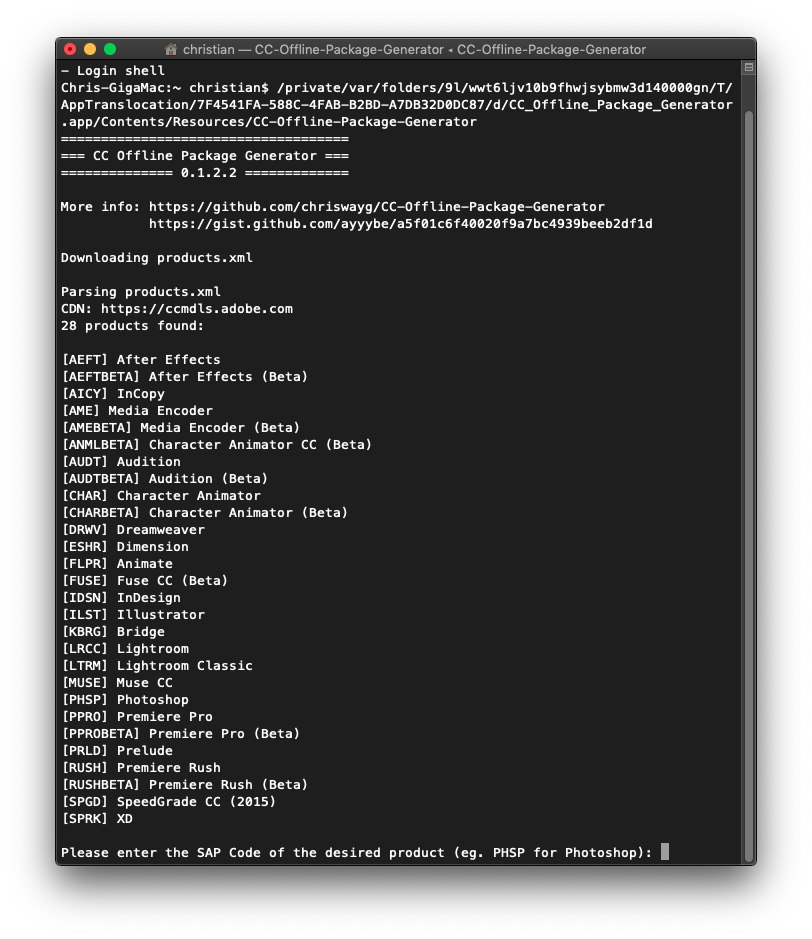
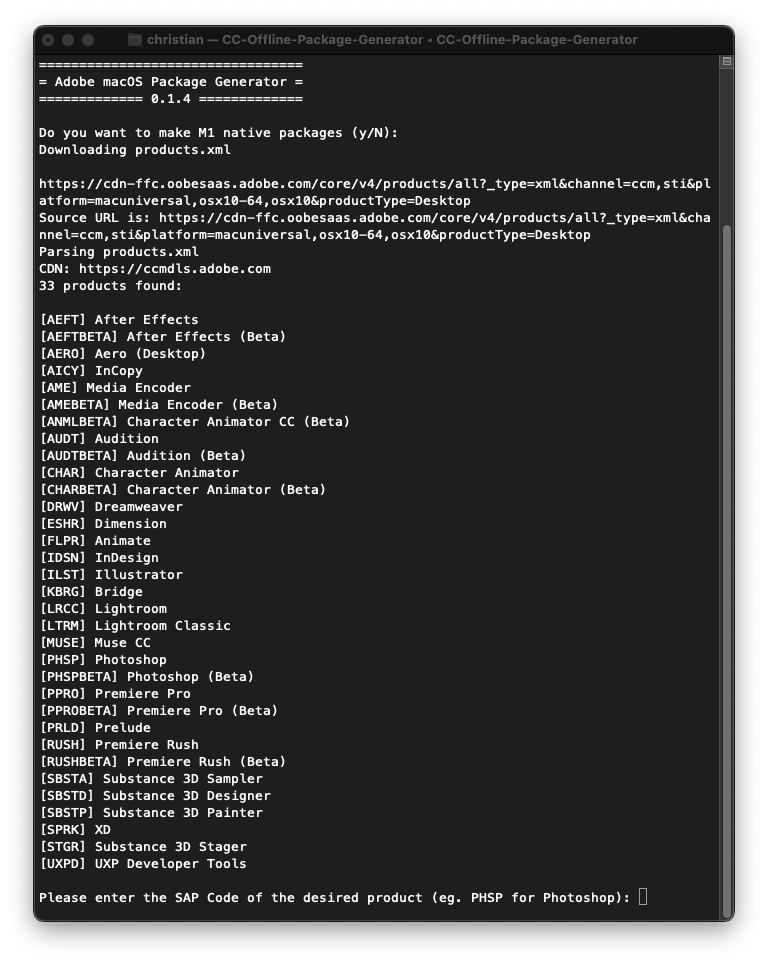
added documentation, updated links and screenshot

Changed region(s): [[0.0312, 0.0, 0.9688, 0.9883]]

diff --git a/readme.md b/readme.md
@@ -1,92 +1,99 @@
 # Adobe CC 2018 to 2022 Direct Download
 
-**UPDATE, March 11, 2022: I have released a new version which packages the updated script _(version 0.1.4)_ by [Drovosek01](https://github.com/Drovosek01) / [adobe-packager](https://github.com/Drovosek01/adobe-packager), which can be found in the `src/` folder. This should work with all recent Adobe Applications.**
+**UPDATE, March 11, 2022: I have released a new version of the *CC Offline Package Generator* app which packages the updated script [adobe-packager](https://github.com/Drovosek01/adobe-packager) (version 0.1.4) by Drovosek. This app will allow you to download most available versions of Adobe CC Applications on all recent versions of macOS.** The advantage of *CC Offline Package Generator* is that it already has all dependencies in a small 8 MB app, whereas the *adobe-packager* script by itself will need to download and install about 500MB of dependencies in order to work.
 
-**Download: [CC Offline Package Generator 0.1.4_1 ](https://github.com/chriswayg/CC-Offline-Package-Generator/releases/latest)**
+**Download: [CC Offline Package Generator](https://github.com/chriswayg/CC-Offline-Package-Generator/releases/latest)**
 
 ### Background
 
 Adobe used to make Adobe CC trial full offline installer packages available via direct downloads as seen in the links for Adobe CC 2018 and 2019:
-- [Adobe CC 2018 Direct Download Links: Creative Cloud 2018 Release](https://prodesigntools.com/adobe-cc-2018-direct-download-links.html)
-- [All the New Adobe CC 2019 Direct Download Links, Now Available!](https://prodesigntools.com/adobe-cc-2019-direct-download-links.html)
-- [How to Get New Adobe Creative Cloud 2021 Direct Download Links | ProDesignTools](https://prodesigntools.com/creative-cloud-2021-direct-download-links.html)
+
+- [Adobe CC 2018 Direct Download Links](https://prodesigntools.com/adobe-cc-2018-direct-download-links.html) and [Adobe CC 2019 Direct Download Links](https://prodesigntools.com/adobe-cc-2019-direct-download-links.html)
+- [How to Get New Adobe Creative Cloud 2022 Direct Download Links | ProDesignTools](https://prodesigntools.com/creative-cloud-2022-direct-download-links.html)
 - [Why Direct Download Links Are Needed | ProDesignTools](https://prodesigntools.com/adobe-cc-no-more-direct-download-links.html#the-need)
 
-There is no equivalent list of Adobe CC 2020 or 2021 direct download links available at this time, but the *CC_Offline_Package_Generator* script can download the files directly from Adobe and create an installer package. *(This GitHub repository is not associated with or endorsed by Adobe or ProDesign Tools. Links to ProDesign and Adobe are provided to give additional background information on the issue of Direct Downloads of the Adobe CC offline installers and to give easy access to the various ways of downloading Adobe software.)*
+There is no equivalent list of Adobe CC 2020 to 2022 direct download links available at this time, but the *CC_Offline_Package_Generator* can download the files directly from Adobe and create an installer package. *(This GitHub repository is not associated with or endorsed by Adobe or ProDesign Tools. Links to ProDesign and Adobe are provided to give additional background information on the issue of Direct Downloads of the Adobe CC offline installers and to give easy access to the various ways of downloading Adobe software.)*
 
 ### Usage
 
-1. First download and install from Adobe the [Creative Cloud - Full Installer - macOS | Alternative downloads (250+ MB)](https://helpx.adobe.com/download-install/kb/creative-cloud-desktop-app-download.html) or the [Creative Cloud - Installer Downloader (3+ MB)](https://creativecloud.adobe.com/apps/download/creative-cloud). The CC Offline Package Generator will not run unless the Adobe Creative Cloud app has been installed first. You need an Adobe account when installing this app.
+1. First download and install from Adobe the [Creative Cloud - Full Installer (250+ MB)](https://helpx.adobe.com/download-install/kb/creative-cloud-desktop-app-download.html) *(scroll down to macOS | Alternative downloads)* or if you prefer the [Creative Cloud - Installer Downloader (3+ MB)](https://creativecloud.adobe.com/apps/download/creative-cloud). The CC Offline Package Generator will not run unless the Adobe Creative Cloud app has been installed first. You need an Adobe account when installing this app.
 
-2. Then download the [CC_Offline_Package_Generator.dmg](https://github.com/chriswayg/CC-Offline-Package-Generator/releases/), mount it and copy `CC_Offline_Package_Generator` to Applications. Run the app and it will open a Terminal window. Then follow the on-screen instructions. Tested on High Sierra, Mojave and Catalina.
+2. Then download the [CC_Offline_Package_Generator.dmg](https://github.com/chriswayg/CC-Offline-Package-Generator/releases/), mount it and copy `CC_Offline_Package_Generator` to Applications. Run the app and it will open a Terminal window. Then follow the on-screen instructions. Tested from High Sierra up to Monterey.
 
 Download location: https://github.com/chriswayg/CC-Offline-Package-Generator/releases/
 
-![](https://raw.githubusercontent.com/chriswayg/CC-Offline-Package-Generator/master/screenshots/Usage00.png)
+![](screenshots/Usage00.png)
 
 Allow access to launch the Terminal window
-![](https://raw.githubusercontent.com/chriswayg/CC-Offline-Package-Generator/master/screenshots/Usage00b.png)
+![](screenshots/Usage00b.png)
 
 The CC_Offline_Package_Generator script will download a list of all products from Adobe and prompt you to choose the product, version, language, and destination folder for the installer.
 
-![](https://raw.githubusercontent.com/chriswayg/CC-Offline-Package-Generator/master/screenshots/Usage01.png)
-![](https://raw.githubusercontent.com/chriswayg/CC-Offline-Package-Generator/master/screenshots/Usage02.png)
+![](screenshots/Usage01.png)
+![](screenshots/Usage02.png)
 
 After that you just have to sit back and wait for it to finish. The script will download all required files, and then generate a convenient installer and place it in the destination directory. When prompted, select a destination folder where you want to save the installer.
 
-![](https://raw.githubusercontent.com/chriswayg/CC-Offline-Package-Generator/master/screenshots/Usage03.png)
+![](screenshots/Usage03.png)
 
 Now you can run the "Install [product]" app created in the destination folder, or save it for later offline installation.
 
-![](https://raw.githubusercontent.com/chriswayg/CC-Offline-Package-Generator/master/screenshots/Usage04.png)
+![](screenshots/Usage04.png)
 
 Make sure you install the [Adobe Creative Cloud App](https://creativecloud.adobe.com/apps/download/creative-cloud) first on the computers where you intend to run the installer. Most installers should work, but some will not. See *Known Issues* below for details.
 
-![](https://raw.githubusercontent.com/chriswayg/CC-Offline-Package-Generator/master/screenshots/Usage05.png)
-![](https://raw.githubusercontent.com/chriswayg/CC-Offline-Package-Generator/master/screenshots/Usage06.png)
-![](https://raw.githubusercontent.com/chriswayg/CC-Offline-Package-Generator/master/screenshots/Usage07.png)
+![](screenshots/Usage05.png)
+![](screenshots/Usage06.png)
+![](screenshots/Usage07.png)
 
 ### Known issues
 
-Currently most installers work, but the following are known not to work:
-- Acrobat does not show up in the list, as is not made available form the Adobe servers in the same way.
-- Muse (Install MUSE_2018.1.1-en_US) will stop with an error, but inside the installer app folder the app in AdobeMuse2018.1.1-core.zip will work in English. Alternatively ProDesign Tools has a download link for Muse_2018_0_CC_LS24.dmg
-- Lightroom CC (Install LRCC_3.3-en_US) will stop with an error.
-- Lightroom Classic 10.x downloads fail, but 9.x (such as Install LTRM_9.4-en_US) works fine.
-- also see bug reports in https://github.com/chriswayg/CC-Offline-Package-Generator/issues
+Currently most installers work, some might not work, and some are known not to work.
 
-### Technical notes:
-The *CC_Offline_Package_Generator* binary file was built with via `pyinstaller pyinstall.spec`on macOS High Sierra 10.13.6. This means it should theoretically be compatible with High Sierra, Mojave, Catalina, and Big Sur. The python virtual environment was created with `pipenv`. The binary already includes Python inside, so there is no need to install Python to run CC_Offline_Package_Generator.
+- *Acrobat* does not show up in the list, as is not made available from the Adobe servers in the same way.
+- Look for reports about installers that do not work in [Issues · CC-Offline-Package-Generator · GitHub](https://github.com/chriswayg/CC-Offline-Package-Generator/issues) and in [Issues · adobe-packager · GitHub](https://github.com/Drovosek01/adobe-packager/issues).
 
-To build the binary, Homebrew and Python 3 needs to be installed. This has been tested with Python 3.7 from Homebrew. The build_prerequisites.sh` script will setup everything that is required. Some familiarity with configuring Python would be helpful. - Issue the following commands in a Terminal:
+### Technical notes
+
+The *CC_Offline_Package_Generator* binary file was built with via `pyinstaller pyinstall.spec`on macOS High Sierra 10.13.6. This means it should be compatible with High Sierra, Mojave, Catalina, Big Sur, Monterey and beyond. The python virtual environment was created with `pipenv`. The original *adobe-packager* script is in the `src/` directory. The binary already includes Python inside, so there is no need to install Python to run CC_Offline_Package_Generator. 
+
+### Build instructions
+
+To build the app, *Homebrew* and *Python 3* need to be installed. This has been tested with Python 3.9 from Homebrew. The `build_prerequisites.sh` script will setup everything that is required. Some familiarity with configuring Python would be helpful. - Issue the following commands in a Terminal:
 
 ```
 git clone https://github.com/chriswayg/CC-Offline-Package-Generator.git
 cd CC-Offline-Package-Generator
 ./build_prerequisites.sh
+```
+
+Open a new Terminal tab and continue with:
+
+```
+cd CC-Offline-Package-Generator
 pipenv shell
 ./build_app.sh
 ```
 
-This will produce the `CC_Offline_Package_Generator.dmg` installer in the `/dmg` directory.
+This will produce the `CC_Offline_Package_Generator.dmg` installer in the `dmg/` directory.
 
 ---
 
-### Alternative - run the python script
+### Alternative: run the python script
 
 - Run a shell script which installs Homebrew and Python first (500 MB), then runs the python script.
-
 1. Open the Apple Terminal.app
 2. Copy & paste this command and hit enter:
 
 ```
-/bin/bash -c "$(curl -fsSL https://raw.githubusercontent.com/chriswayg/CC-Offline-Package-Generator/master/src/install.sh)"
+/bin/bash -c "$(curl -fsSL src/install.sh)"
 ```
-* Then run the `CC Offline Package Generator.command` in your /Applications folder and follow the on-screen instructions as explained above..
 
-The script should be able to automatically configure itself by installing the required prerequisites in most setups: It will install Homebrew, if not already installed, then install Python 3 via Homebrew, and then add the python `requests` and the `tqdm` package to your python3 install via pip. These are the prerequisites for actually running the `ccdl.py` python script which does the actual download.
+* Then run the `CC Offline Package Generator.command` in your /Applications folder and follow the on-screen instructions as explained above.
 
-If you already have Python 3 and the `requests` and the `tqdm` packages installed, you could also run  `ccdl.py` directly:
+The script should be able to automatically configure itself by installing the required prerequisites in most setups: It will install Homebrew, if not already installed, then install Python 3 via Homebrew, and then add the python `requests` and the `tqdm` package to your python3 install via `pip`. These are the prerequisites for actually running the `ccdl.py` python script which does the actual download.
+
+If you already have *Python 3*, the `requests` and the `tqdm` packages installed, you could also run  `ccdl.py` directly:
 
 ```
 python3 ccdl.py
@@ -95,13 +102,24 @@ python3 ccdl.py
 ---
 
 #### How this works
+
 The developer of the script, [ayyybe](https://gist.github.com/ayyybe), explains it:
->  I used a proxy to look at how the Creative Cloud app downloads apps, and was able to emulate it. I wish it were as simple as just downloading a dmg/pkg/app but Adobe has their own proprietary installer format. All the downloads are zip files with some files, and a .pimx file, which contains instructions for the installer system (usually something like "copy these files, set these permissions on these files, register these files with the CC app") I was originally gonna implement my own parser/installer for .pimx files and handle everything myself, but I found that you can use Adobe's own installer included in the CC app by creating and providing it with a "driver.xml" file that contains the location of all the downloads, the install location, and install language, among other things. The installers made by this script aren't the actual offline installers that Adobe provides to its enterprise customers. They're generated by the script and contain all the downloads for the product and its dependencies, and the aforementioned driver.xml. When you run it and click the install button, it simply runs the HyperDrive installer included with the Adobe Creative Cloud App, and points it to the driver.xml inside the Install.app
+
+>  I used a proxy to look at how the Creative Cloud app downloads apps, and was able to emulate it. I wish it were as simple as just downloading a dmg/pkg/app but Adobe has their own proprietary installer format. All the downloads are zip files with some files, and a .pimx file, which contains instructions for the installer system (usually something like "copy these files, set these permissions on these files, register these files with the CC app"). I was originally gonna implement my own parser/installer for .pimx files and handle everything myself, but I found that you can use Adobe's own installer included in the CC app by creating and providing it with a "driver.xml" file that contains the location of all the downloads, the install location, and install language, among other things. **The installers made by this script aren't the actual offline installers that Adobe provides to its enterprise customers. They're generated by the script and contain all the downloads for the product and its dependencies, and the aforementioned driver.xml.** When you run it and click the install button, it simply runs the HyperDrive installer included with the Adobe Creative Cloud App, and points it to the driver.xml inside the Install.app
+
+### Technical documentation
+
+- [PyInstaller Manual](https://pyinstaller.readthedocs.io/en/stable/): *"PyInstaller builds apps are compatible with the macOS release in which you run it, and following releases."*
+
+- [Platypus](https://sveinbjorn.org/platypus): Create Mac apps from command line scripts
+
+- [create-dmg](https://github.com/create-dmg/create-dmg): A shell script to build fancy DMGs
 
 ### Credits and notes:
-- the python script was initially forked from [ayyybe/ccdl.command](https://gist.github.com/ayyybe/a5f01c6f40020f9a7bc4939beeb2df1d) with a progressbar added from jorisguex's GitHub Gist fork.
-- current updated version is from [Drovosek01](https://github.com/Drovosek01) / [adobe-packager](https://github.com/Drovosek01/adobe-packager)
-- the currently working script by Drovosek01 might get updated more frequently than my app.
-- I merely added the binary *CC_Offline_Package_Generator* which is `ccdl.py` packaged together with Python 3 using pyinstaller as well as added the .app and .dmg packaging.
+
+- The python script was initially forked from [ayyybe/ccdl.command](https://gist.github.com/ayyybe/a5f01c6f40020f9a7bc4939beeb2df1d) with a progressbar added from jorisguex's GitHub Gist fork. After ayyybe stopped updating the script it was further developed by [  
+  SaadBazaz](https://gist.github.com/SaadBazaz)/[ccdl.command](https://gist.github.com/SaadBazaz/37f41fffc66efea798f19582174e654c), as well as [thpryrchn](https://gist.github.com/thpryrchn)/[ccdl.command](https://gist.github.com/thpryrchn/c0ea1b6793117b00494af5f05959d526) and possibly others.
+- Based on this Drovosek01 created an updated version called [adobe-packager](https://github.com/Drovosek01/adobe-packager) which forms the basis of this app. *(The currently working script version [adobe-packager](https://github.com/Drovosek01/adobe-packager) might get updated more frequently than my app.)*
+- I merely created the *CC_Offline_Package_Generator* app which is `ccdl.py` packaged together with Python 3 using *pyinstaller* as well as adding the *.app* and *.dmg *packaging.
 - *CC Folder Icon* by [Baklay](https://www.deviantart.com/baklay/gallery) and Arrow Vectors by [Vecteezy](https://www.vecteezy.com/free-vector/arrow)
 - Lincense: GPL 3.0 for my portions of the code
